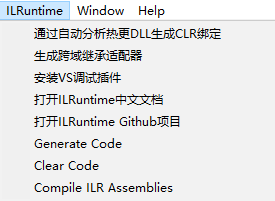
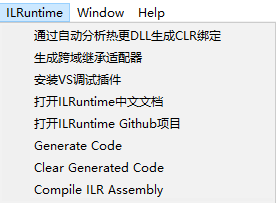
0

diff --git a/ILRuntimeDemo/Assets/ILRuntime.Extensions/Editor/EditorILRHelper.cs b/ILRuntimeDemo/Assets/ILRuntime.Extensions/Editor/EditorILRHelper.cs
@@ -70,11 +70,14 @@ namespace UnityEditor.ILRuntime.Extensions
             AssetDatabase.Refresh();
         }
 
-        [MenuItem(MenuPrefix + "Clear Code")]
+        [MenuItem(MenuPrefix + "Clear Generated Code")]
         public static void ClearCode()
         {
             if (string.IsNullOrEmpty(EditorILRSettings.GenerateCodePath))
+            {
+                Debug.LogError($"'{ILRSettings.ProjectSettingsPath}/Generate Code Path' not set");
                 return;
+            }
             if (!Directory.Exists(EditorILRSettings.GenerateCodePath))
                 return;
             foreach (var file in Directory.GetFiles(EditorILRSettings.GenerateCodePath, "*", SearchOption.AllDirectories))
@@ -248,7 +251,7 @@ namespace UnityEditor.ILRuntime.Extensions
 
                             bool hasRefOut = false;
 
-                            foreach(var arg in method.GetParameters())
+                            foreach (var arg in method.GetParameters())
                             {
                                 if (arg.ParameterType.IsByRef)
                                 {

diff --git a/ILRuntimeDemo/Assets/ILRuntime.Extensions/Runtime/Settings/ILRSettings.cs b/ILRuntimeDemo/Assets/ILRuntime.Extensions/Runtime/Settings/ILRSettings.cs
@@ -13,6 +13,8 @@ namespace UnityEngine.ILRuntime.Extensions
     public class ILRSettings
     {
 
+        internal const string ProjectSettingsPath = "Project Settings/Extensions/ILRuntime";
+
         #region Provider
 
 
@@ -36,7 +38,7 @@ namespace UnityEngine.ILRuntime.Extensions
         #endregion
 
         [SerializeField]
-        private string assemblyName = "HotFix_Project";
+        private string assemblyName;
 
         public static string AssemblyName
         {
@@ -47,7 +49,7 @@ namespace UnityEngine.ILRuntime.Extensions
 
 
         [SerializeField]
-        private string streamingAssetsPath="ILR";
+        private string streamingAssetsPath = "ILR";
 
         public static string StreamingAssetsPath
         {

diff --git a/ILRuntimeDemo/Assets/ILRuntime.Extensions/Editor/ILRProjectHelper.cs b/ILRuntimeDemo/Assets/ILRuntime.Extensions/Editor/ILRProjectHelper.cs
@@ -211,12 +211,12 @@ namespace UnityEditor.ILRuntime.Extensions
         }
 
 
-        [MenuItem("ILRuntime/Compile ILR Assemblies")]
+        [MenuItem(EditorILRHelper.MenuPrefix + "Compile ILR Assembly")]
         public static void CompileProject()
         {
 
-            int processId = Progress.Start("Compile ILR Assemblies");
-            EditorUtility.DisplayProgressBar("Compile ILR Assemblies", "Compiling", 0f);
+            int processId = Progress.Start("Compile ILR Assembly");
+            EditorUtility.DisplayProgressBar("Compile ILR Assembly", "Compiling", 0f);
             try
             {
                 StringBuilder builder = new StringBuilder();

diff --git a/ILRuntimeDemo/Assets/ILRuntime.Extensions/Runtime/ILRuntimeLoader.cs b/ILRuntimeDemo/Assets/ILRuntime.Extensions/Runtime/ILRuntimeLoader.cs
@@ -37,6 +37,13 @@ namespace UnityEngine.ILRuntime.Extensions
 
         protected virtual IEnumerator Initalize()
         {
+
+            if (string.IsNullOrEmpty(ILRSettings.AssemblyName))
+            {
+                Debug.LogError($"'{ILRSettings.ProjectSettingsPath}/Assembly Name' not set");
+                yield break;
+            }
+
             appDomain = new AppDomain();
 
             byte[] dllBytes = null, pdbBytes = null;

diff --git a/ILRuntimeDemo/Assets/ILRuntime.Extensions/README.md b/ILRuntimeDemo/Assets/ILRuntime.Extensions/README.md
@@ -22,7 +22,7 @@
 
 - Assembly Name
 
-  程序集名称，多个用 `|` 分隔，可以点击 `Refresh` 按钮读取工程文件获取
+  程序集名称，多个用 `|` 分隔，点击 `Refresh` 按钮读取工程文件获取程序集名称
 
 - Generate Code Path
 
@@ -30,7 +30,7 @@
   
 - StreamingAssets Path
 
-  默认：`ILR`，程序集所在 `StreamingAssets` 目录的相对路径，`ILRSettings.StreamingAssetsPath` 获取
+  默认：`ILR`，`ILR` 程序集相对 `StreamingAssets` 目录的路径，`ILRSettings.StreamingAssetsPath` 获取
 
   配置VS工程属性 `生成事件/生成后事件命令行`
 
@@ -47,11 +47,17 @@
 
 ![Menu](Doc~/Images/Menu.png)
 
-- Compile ILR Assemblies
+- Generate Code
+
+  生成跨域调用的代码
+
+- Clear Generated Code
+
+  删除生成的代码
+
+- Compile ILR Assembly
 
   编译 `ILR` 工程，需要配置工程路径
-
-  
 
 ## 打开 ILR 工程
 
